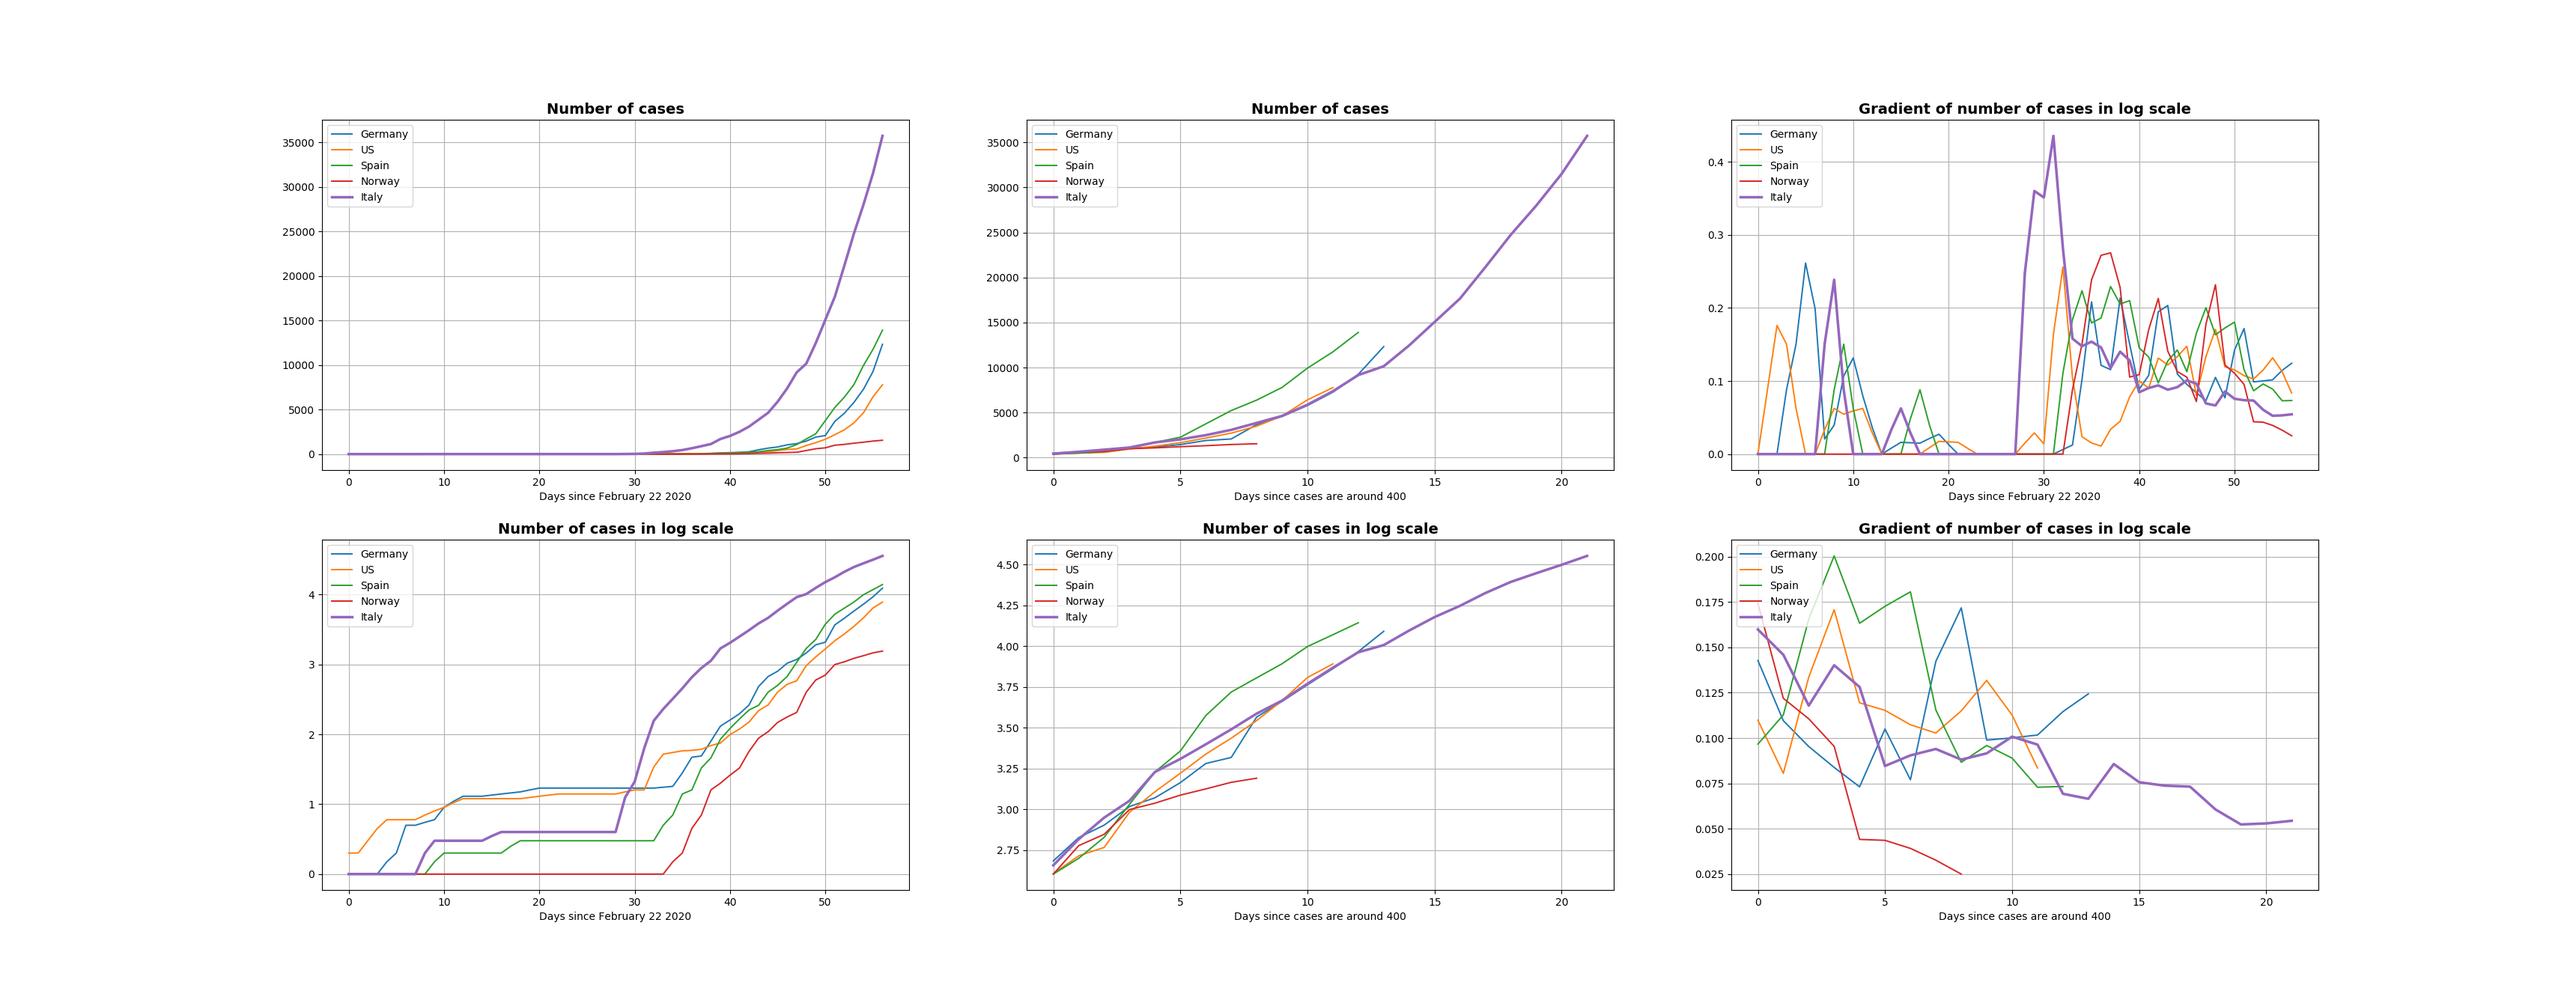
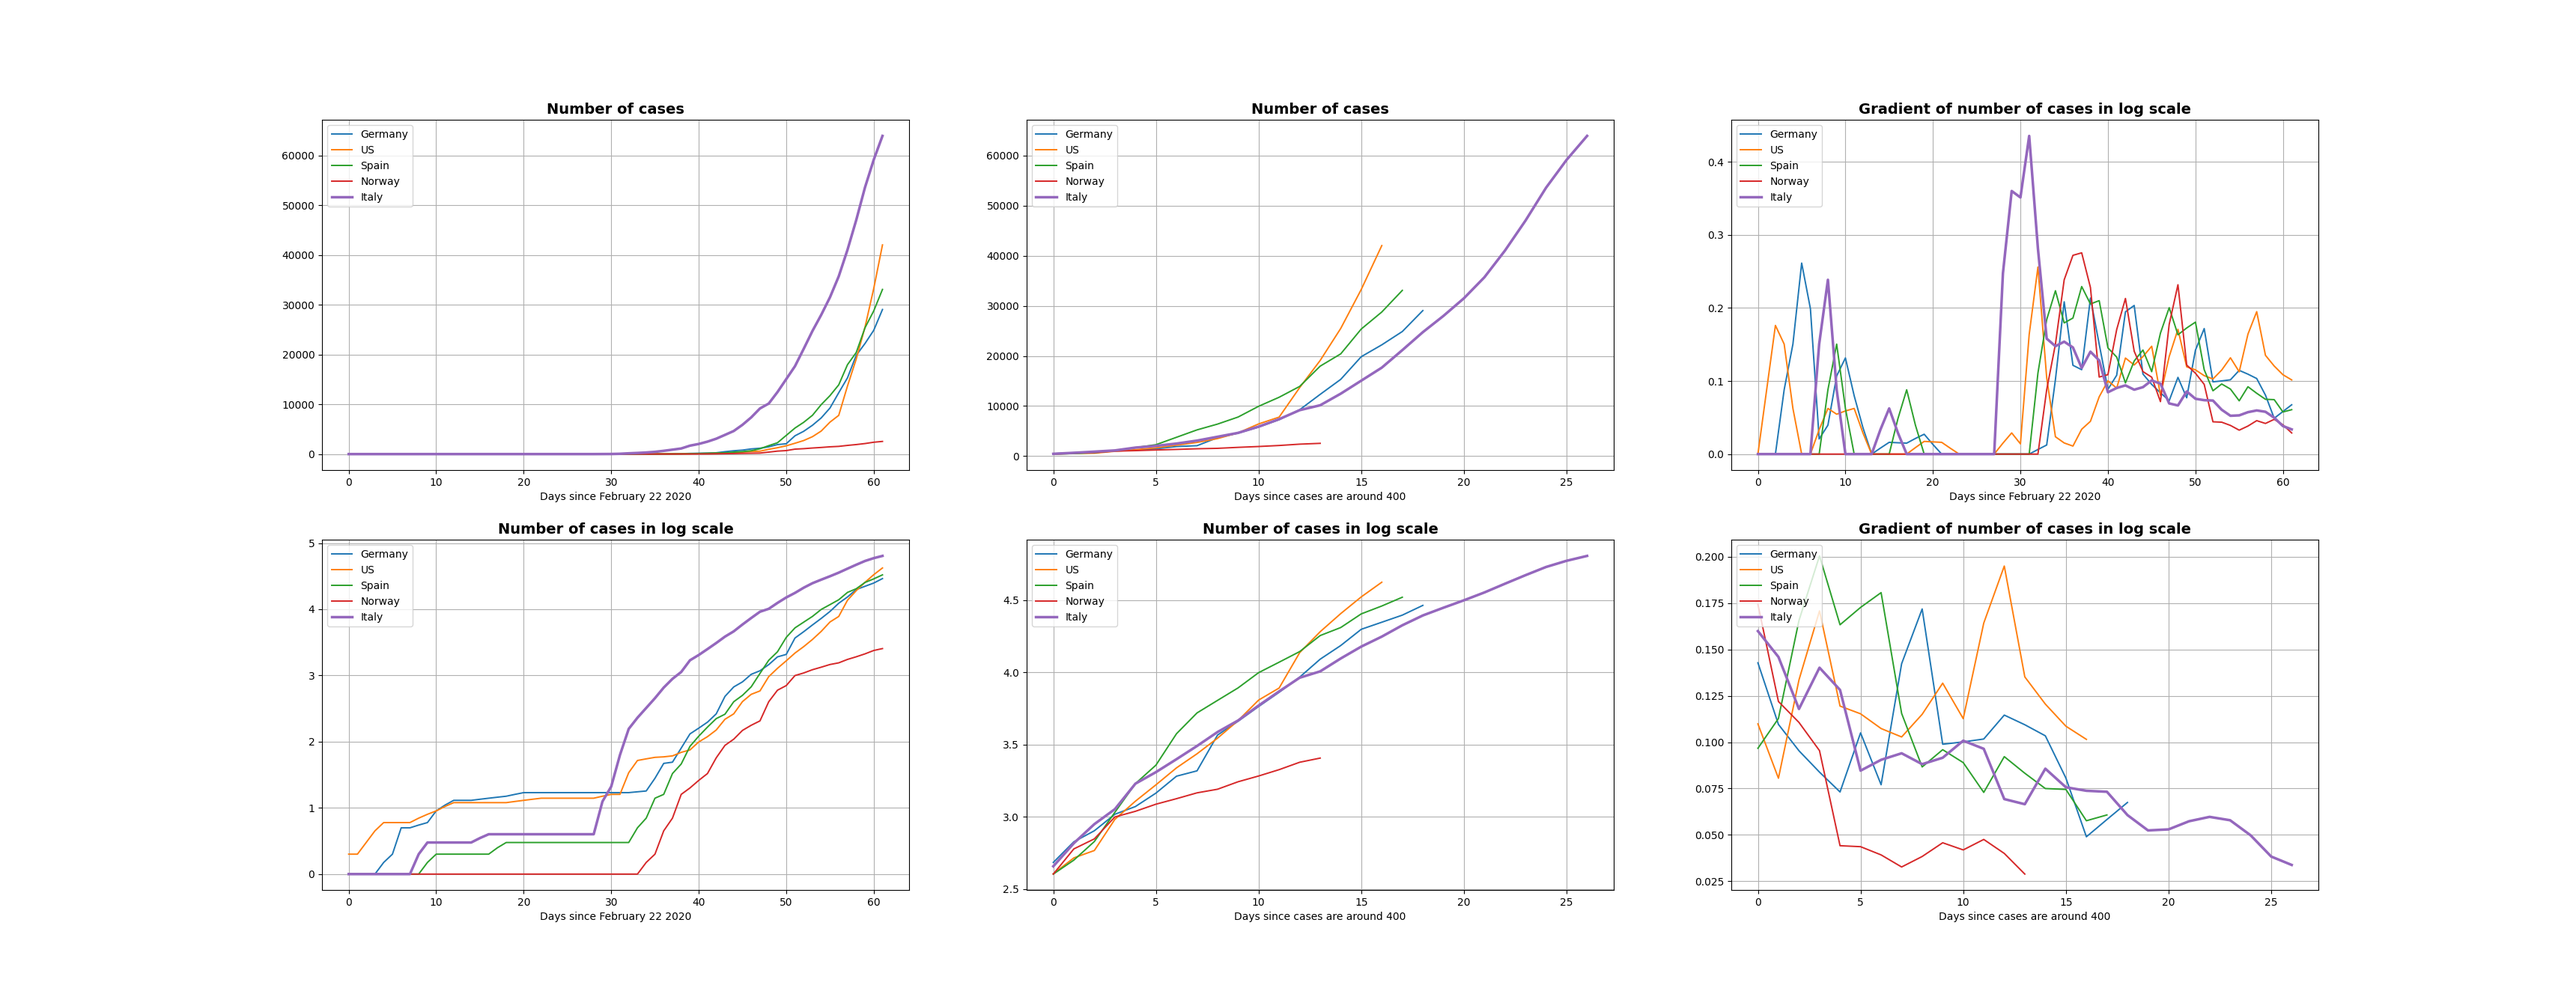
Updated graphs

diff --git a/README.md b/README.md
@@ -20,7 +20,7 @@ You can include other countries or provinces, if available, by just adding the n
 * ```python run_countries.py Japan```
 * ```python run_italy.py VE```
 
-## Results as of March 18th 2020
+## Results as of March 22nd 2020
 
 ### COUNTRIES
 ![Cases](https://github.com/dariocazzani/COVID-19-trends/blob/master/images/image1.png)
